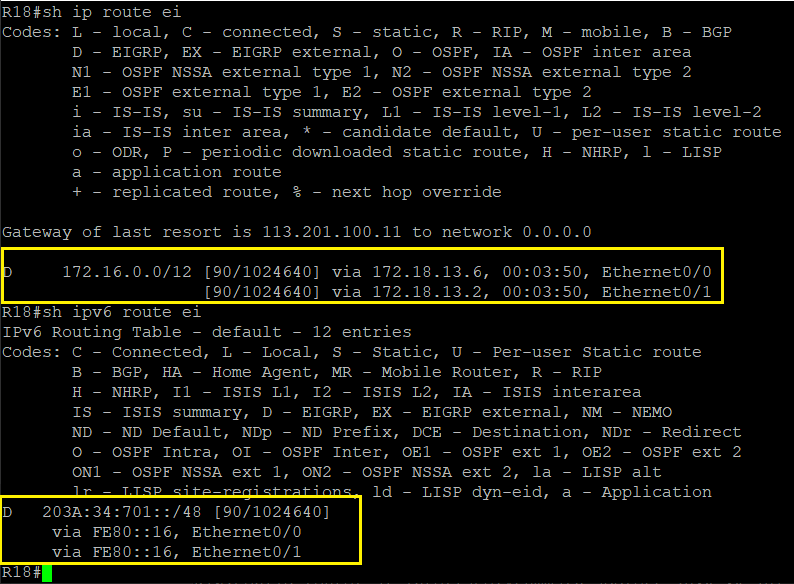
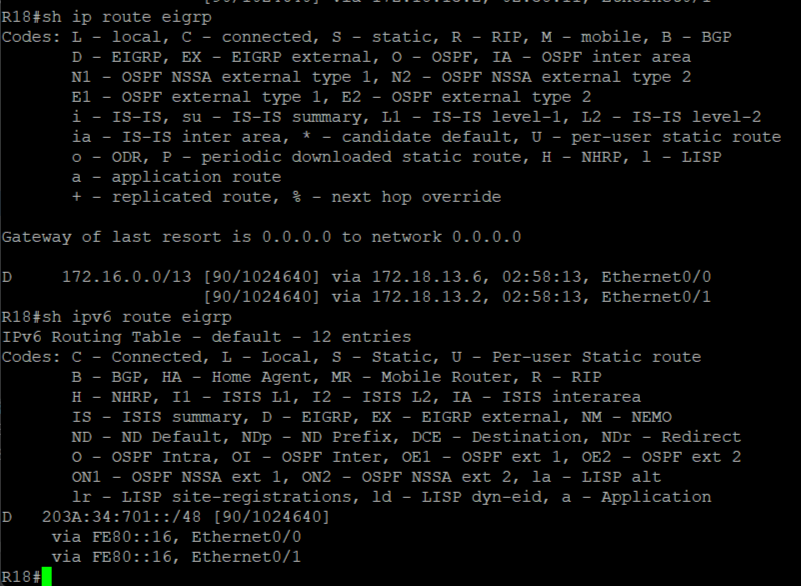
commit

Changed region(s): [[0.0, 0.0, 1.0, 1.0], [0.6952, 0.0, 0.7254, 0.0308]]

diff --git a/labs/lab08/readme.md b/labs/lab08/readme.md
@@ -202,9 +202,9 @@ R18(config)#ipv6 route ::/0 Null0
 
 ![R17_ipv4_route_stat.png](R17_ipv4_route_stat.png)
   
-и для IPv6    
-![R17_ipv6_route_stat.png](R17_ipv6_route_stat.png)
+и для IPv6 
 
+![R17_ipv6_route_stat.png](R17_ipv6_route_stat.png)
 
 ### 2. Настроить сеть так, что-бы R32 получал только маршрут по умолчанию.
 
@@ -234,7 +234,7 @@ R16(config-router-af-topology)#distribute-list prefix-list DEFv6_R32 out e0/3
 для интерфейсов e0/1 R16 и R17.
 Задаем команды на примере R17
 ````
-R17(config-router-af-interface)#summary-address 172.16.0.0 255.240.0.0
+R17(config-router-af-interface)#summary-address 172.16.0.0 255.248.0.0
 R17(config-router-af-interface)#summary-address 203A:34:701::/48
 ````
 Проверку производим на R18
